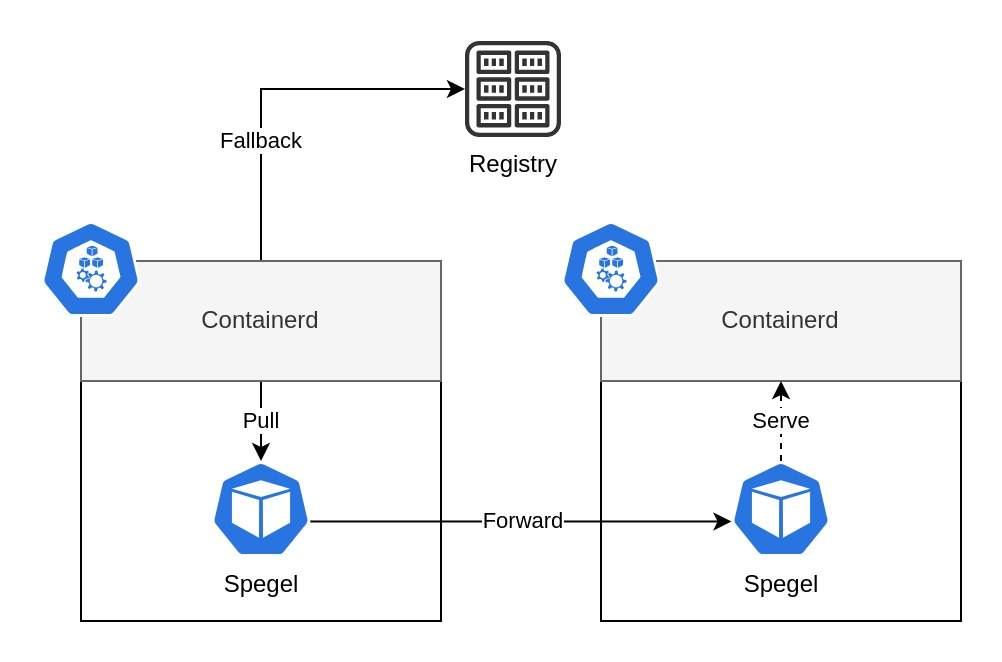
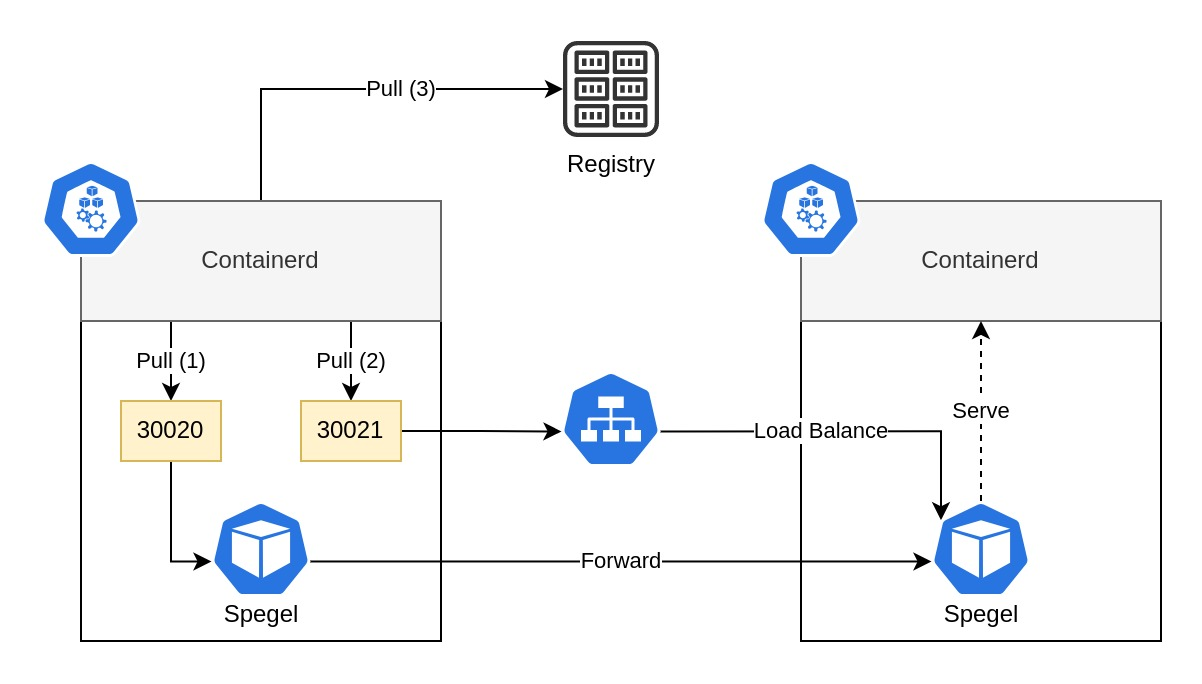
Implement support for using fallback node port service if local Spegel is not reachable

diff --git a/internal/mirror/mirror_test.go b/internal/mirror/mirror_test.go
@@ -16,7 +16,7 @@ func TestHostFileContent(t *testing.T) {
 	require.NoError(t, err)
 	mirrorURL, err := url.Parse("http://127.0.0.1:5000")
 	require.NoError(t, err)
-	content := hostsFileContent(*registryURL, *mirrorURL)
+	content := hostsFileContent(*registryURL, []url.URL{*mirrorURL})
 	expected := `server = "https://example.com"
 
 [host."http://127.0.0.1:5000"]
@@ -27,12 +27,33 @@ func TestHostFileContent(t *testing.T) {
 	require.Equal(t, expected, content)
 }
 
+func TestHostFileContentMultipleMirrors(t *testing.T) {
+	registryURL, err := url.Parse("https://example.com")
+	require.NoError(t, err)
+	mirrorURLs := stringListToUrlList(t, []string{"http://127.0.0.1:5000", "http://127.0.0.1:5001"})
+	content := hostsFileContent(*registryURL, mirrorURLs)
+	expected := `server = "https://example.com"
+
+[host."http://127.0.0.1:5000"]
+  capabilities = ["pull", "resolve"]
+[host."http://127.0.0.1:5000".header]
+  X-Spegel-Registry = ["https://example.com"]
+  X-Spegel-Mirror = ["true"]
+
+[host."http://127.0.0.1:5001"]
+  capabilities = ["pull", "resolve"]
+[host."http://127.0.0.1:5001".header]
+  X-Spegel-Registry = ["https://example.com"]
+  X-Spegel-Mirror = ["true"]`
+	require.Equal(t, expected, content)
+}
+
 func TestHostFileContentDockerOverride(t *testing.T) {
 	registryURL, err := url.Parse("https://docker.io")
 	require.NoError(t, err)
 	mirrorURL, err := url.Parse("http://127.0.0.1:5000")
 	require.NoError(t, err)
-	content := hostsFileContent(*registryURL, *mirrorURL)
+	content := hostsFileContent(*registryURL, []url.URL{*mirrorURL})
 	expected := `server = "https://registry-1.docker.io"
 
 [host."http://127.0.0.1:5000"]
@@ -45,9 +66,11 @@ func TestHostFileContentDockerOverride(t *testing.T) {
 
 func TestMirrorConfiguration(t *testing.T) {
 	fs := afero.NewMemMapFs()
+	mirrors := stringListToUrlList(t, []string{"http://127.0.0.1:5000"})
+
 	registryConfigPath := "/etc/containerd/certs.d"
 	registries := stringListToUrlList(t, []string{"https://docker.io", "http://foo.bar:5000"})
-	err := AddMirrorConfiguration(context.TODO(), fs, registryConfigPath, ":5000", registries)
+	err := AddMirrorConfiguration(context.TODO(), fs, registryConfigPath, registries, mirrors)
 	require.NoError(t, err)
 	for _, registry := range registries {
 		fp := path.Join(registryConfigPath, registry.Host, "hosts.toml")
@@ -66,21 +89,22 @@ func TestMirrorConfiguration(t *testing.T) {
 
 func TestInvalidMirrorURL(t *testing.T) {
 	fs := afero.NewMemMapFs()
+	mirrors := stringListToUrlList(t, []string{"http://127.0.0.1:5000"})
 
 	registries := stringListToUrlList(t, []string{"ftp://docker.io"})
-	err := AddMirrorConfiguration(context.TODO(), fs, "/etc/containerd/certs.d", ":5000", registries)
+	err := AddMirrorConfiguration(context.TODO(), fs, "/etc/containerd/certs.d", registries, mirrors)
 	require.EqualError(t, err, "invalid registry url scheme must be http or https")
 
 	registries = stringListToUrlList(t, []string{"https://docker.io/foo/bar"})
-	err = AddMirrorConfiguration(context.TODO(), fs, "/etc/containerd/certs.d", ":5000", registries)
+	err = AddMirrorConfiguration(context.TODO(), fs, "/etc/containerd/certs.d", registries, mirrors)
 	require.EqualError(t, err, "invalid registry url path has to be empty")
 
 	registries = stringListToUrlList(t, []string{"https://docker.io?foo=bar"})
-	err = AddMirrorConfiguration(context.TODO(), fs, "/etc/containerd/certs.d", ":5000", registries)
+	err = AddMirrorConfiguration(context.TODO(), fs, "/etc/containerd/certs.d", registries, mirrors)
 	require.EqualError(t, err, "invalid registry url query has to be empty")
 
 	registries = stringListToUrlList(t, []string{"https://foo@docker.io"})
-	err = AddMirrorConfiguration(context.TODO(), fs, "/etc/containerd/certs.d", ":5000", registries)
+	err = AddMirrorConfiguration(context.TODO(), fs, "/etc/containerd/certs.d", registries, mirrors)
 	require.EqualError(t, err, "invalid registry url user has to be empty")
 
 }

diff --git a/main.go b/main.go
@@ -28,11 +28,12 @@ import (
 )
 
 type arguments struct {
-	MirrorRegistries             []url.URL `arg:"--mirror-registries,required" help:"list of registries to mirror."`
+	Registries                   []url.URL `arg:"--registries,required" help:"registries that are configured to be mirrored."`
+	MirrorRegistries             []url.URL `arg:"--mirror-registries,required" help:"registries that are configured to act as mirrors."`
 	ImageFilter                  string    `arg:"--image-filter" help:"inclusive image name filter."`
-	RegistryAddr                 string    `arg:"--registry-addr" default:":5000" help:"address to server image registry."`
-	RouterAddr                   string    `arg:"--router-addr" default:":5001" help:"address to serve router."`
-	MetricsAddr                  string    `arg:"--metrics-addr" default:":9090" help:"address to serve metrics."`
+	RegistryAddr                 string    `arg:"--registry-addr,required" help:"address to server image registry."`
+	RouterAddr                   string    `arg:"--router-addr,required" help:"address to serve router."`
+	MetricsAddr                  string    `arg:"--metrics-addr,required" help:"address to serve metrics."`
 	ContainerdSock               string    `arg:"--containerd-sock" default:"/run/containerd/containerd.sock" help:"Endpoint of containerd service."`
 	ContainerdNamespace          string    `arg:"--containerd-namespace" default:"k8s.io" help:"Containerd namespace to fetch images from."`
 	ContainerdRegistryConfigPath string    `arg:"--containerd-registry-config-path" default:"/etc/containerd/certs.d" help:"Directory where mirror configuration is written."`
@@ -77,6 +78,24 @@ func run(log logr.Logger, args *arguments) error {
 	defer cancel()
 	g, ctx := errgroup.WithContext(ctx)
 
+	// It is fine to immediatly write mirror configuration because it should fallback to another nodes Spegel instance.
+	fs := afero.NewOsFs()
+	if args.ContainerdMirrorAdd {
+		err := mirror.AddMirrorConfiguration(ctx, fs, args.ContainerdRegistryConfigPath, args.Registries, args.MirrorRegistries)
+		if err != nil {
+			return err
+		}
+	}
+	if args.ContainerdMirrorRemove {
+		defer func() {
+			err := mirror.RemoveMirrorConfiguration(ctx, fs, args.ContainerdRegistryConfigPath, args.Registries)
+			if err != nil {
+				// TODO: Append remove error to removed error.
+				log.Error(err, "failed to remove mirror configuration")
+			}
+		}()
+	}
+
 	mux := http.NewServeMux()
 	mux.Handle("/metrics", promhttp.Handler())
 	srv := &http.Server{
@@ -120,20 +139,6 @@ func run(log logr.Logger, args *arguments) error {
 		<-ctx.Done()
 		return reg.Shutdown()
 	})
-
-	if args.ContainerdMirrorAdd {
-		fs := afero.NewOsFs()
-		defer func() {
-			err := mirror.RemoveMirrorConfiguration(ctx, fs, args.ContainerdRegistryConfigPath, args.MirrorRegistries)
-			if err != nil {
-				log.Error(err, "failed to remove mirror configuration")
-			}
-		}()
-		err := mirror.AddMirrorConfiguration(ctx, fs, args.ContainerdRegistryConfigPath, args.RegistryAddr, args.MirrorRegistries)
-		if err != nil {
-			return err
-		}
-	}
 
 	log.Info("running registry", "addr", args.RegistryAddr)
 	err = g.Wait()

diff --git a/internal/mirror/mirror.go b/internal/mirror/mirror.go
@@ -3,7 +3,6 @@ package mirror
 import (
 	"context"
 	"fmt"
-	"net"
 	"net/url"
 	"path"
 
@@ -17,20 +16,12 @@ import (
 // Refer to containerd registry configuration documentation for mor information about required configuration.
 // https://github.com/containerd/containerd/blob/main/docs/cri/config.md#registry-configuration
 // https://github.com/containerd/containerd/blob/main/docs/hosts.md#registry-configuration---examples
-func AddMirrorConfiguration(ctx context.Context, fs afero.Fs, configPath, addr string, registryURLs []url.URL) error {
+func AddMirrorConfiguration(ctx context.Context, fs afero.Fs, configPath string, registryURLs, mirrorURLs []url.URL) error {
 	if err := validate(registryURLs); err != nil {
 		return err
 	}
-	_, port, err := net.SplitHostPort(addr)
-	if err != nil {
-		return err
-	}
-	mirrorURL, err := url.Parse(fmt.Sprintf("http://127.0.0.1:%s", port))
-	if err != nil {
-		return err
-	}
 	for _, registryURL := range registryURLs {
-		content := hostsFileContent(registryURL, *mirrorURL)
+		content := hostsFileContent(registryURL, mirrorURLs)
 		fp := path.Join(configPath, registryURL.Host, "hosts.toml")
 		err := fs.MkdirAll(path.Dir(fp), 0755)
 		if err != nil {
@@ -60,18 +51,21 @@ func RemoveMirrorConfiguration(ctx context.Context, fs afero.Fs, configPath stri
 	return multierr.Combine(errs...)
 }
 
-func hostsFileContent(registryURL url.URL, mirrorURL url.URL) string {
+func hostsFileContent(registryURL url.URL, mirrorURLs []url.URL) string {
 	server := registryURL.String()
 	if isDockerHub(registryURL) {
 		server = "https://registry-1.docker.io"
 	}
-	content := fmt.Sprintf(`server = "%[1]s"
+	content := fmt.Sprintf(`server = "%s"`, server)
+	for _, mirrorURL := range mirrorURLs {
+		content = fmt.Sprintf(`%[1]s
 
 [host."%[3]s"]
   capabilities = ["pull", "resolve"]
 [host."%[3]s".header]
   %[4]s = ["%[2]s"]
-  %[5]s = ["true"]`, server, registryURL.String(), mirrorURL.String(), registry.RegistryHeader, registry.MirrorHeader)
+  %[5]s = ["true"]`, content, registryURL.String(), mirrorURL.String(), registry.RegistryHeader, registry.MirrorHeader)
+	}
 	return content
 }
 

diff --git a/internal/registry/registry.go b/internal/registry/registry.go
@@ -36,7 +36,6 @@ func NewRegistry(ctx context.Context, addr string, containerdClient *containerd.
 		return nil, err
 	}
 	log := logr.FromContextOrDiscard(ctx)
-
 	cfg := pkggin.Config{
 		LogConfig: pkggin.LogConfig{
 			Logger:          log,
@@ -52,9 +51,9 @@ func NewRegistry(ctx context.Context, addr string, containerdClient *containerd.
 	engine := pkggin.NewEngine(cfg)
 	registryHandler := &RegistryHandler{
 		log:              log,
-		registryPort:     registryPort,
 		containerdClient: containerdClient,
 		router:           router,
+		registryPort:     registryPort,
 	}
 	engine.GET("/healthz", registryHandler.readyHandler)
 	engine.Any("/v2/*params", registryHandler.registryHandler)
@@ -82,9 +81,9 @@ func (r *Registry) Shutdown() error {
 
 type RegistryHandler struct {
 	log              logr.Logger
-	registryPort     string
 	containerdClient *containerd.Client
 	router           routing.Router
+	registryPort     string
 }
 
 func (r *RegistryHandler) readyHandler(c *gin.Context) {
@@ -120,7 +119,7 @@ func (r *RegistryHandler) registryHandler(c *gin.Context) {
 
 	// Requests coming from localhost are meant to be mirrored.
 	if isMirrorRequest(c.Request.Header) {
-		r.handleMirror(c, remoteRegistry, r.registryPort)
+		r.handleMirror(c, remoteRegistry)
 		return
 	}
 
@@ -151,7 +150,7 @@ func (r *RegistryHandler) registryHandler(c *gin.Context) {
 }
 
 // TODO: Retry multiple endoints
-func (r *RegistryHandler) handleMirror(c *gin.Context, remoteRegistry, registryPort string) {
+func (r *RegistryHandler) handleMirror(c *gin.Context, remoteRegistry string) {
 	c.Set("handler", "mirror")
 
 	// Disable mirroring so we dont end with an infinite loop
@@ -186,7 +185,7 @@ func (r *RegistryHandler) handleMirror(c *gin.Context, remoteRegistry, registryP
 		c.AbortWithError(http.StatusNotFound, fmt.Errorf("could not find node with ref: %s", ref.String()))
 		return
 	}
-	url, err := url.Parse(fmt.Sprintf("http://%s:%s", ip, registryPort))
+	url, err := url.Parse(fmt.Sprintf("http://%s:%s", ip, r.registryPort))
 	if err != nil {
 		//nolint:errcheck // ignore
 		c.AbortWithError(http.StatusNotFound, err)

diff --git a/internal/routing/router.go b/internal/routing/router.go
@@ -50,6 +50,7 @@ func NewP2PRouter(ctx context.Context, addr string, b Bootstrapper) (Router, err
 		return nil, fmt.Errorf("could not create host: %w", err)
 	}
 	self := fmt.Sprintf("%s/p2p/%s", host.Addrs()[0].String(), host.ID().Pretty())
+	log.Info("starting p2p router", "id", self)
 	err = b.Run(ctx, self)
 	if err != nil {
 		return nil, err

diff --git a/CHANGELOG.md b/CHANGELOG.md
@@ -9,6 +9,8 @@ and this project adheres to [Semantic Versioning](https://semver.org/spec/v2.0.0
 
 ### Added 
 
+- [#18](https://github.com/XenitAB/spegel/pull/18) Add support to use Spegel instance on another node.
+
 ### Changed
 
 ### Deprecated
